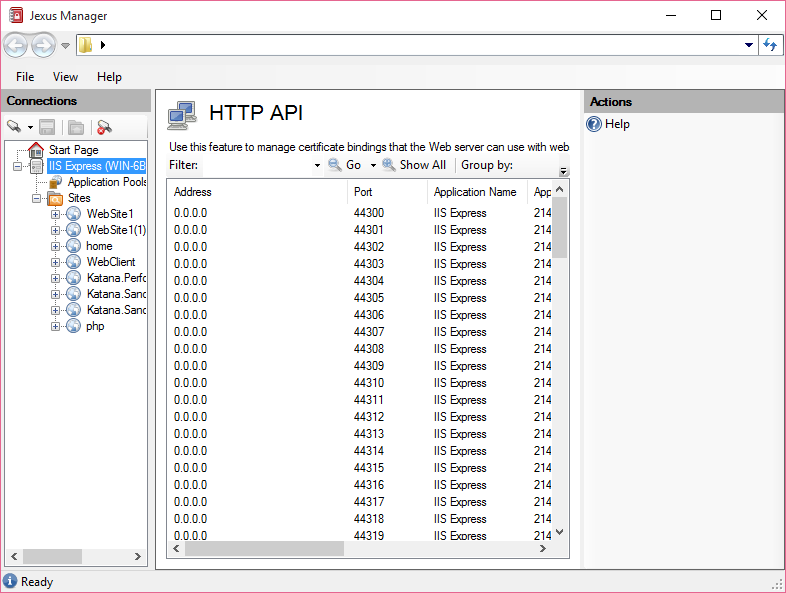
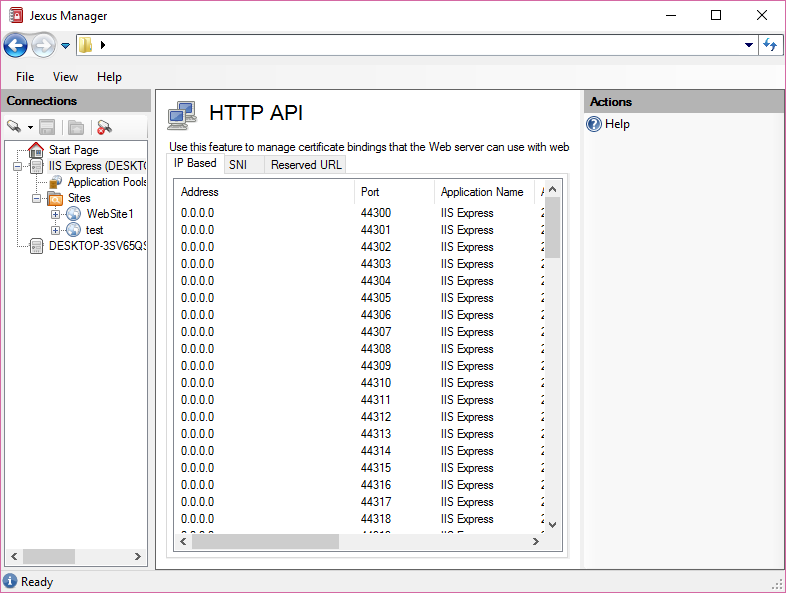
Revised HTTP API page to match latest build.

diff --git a/manager/tutorials/https-binding.rst b/manager/tutorials/https-binding.rst
@@ -58,9 +58,15 @@ Starting from Windows 8/IIS 8 and above, we can create SNI based in addition to 
 
 .. image:: _static/https_sni.png
 
-Scroll down to the bottom of the list, SNI based mapping for certificates is displayed. They are bind to host name + port number instead of IP end point + port number.
+SNI based mapping for certificates is displayed under SNI tab. They are bind to host name + port number instead of IP end point + port number.
 
 Such SNI based mappings are automatically created by Jexus Manager when you add SNI based bindings to web sites. They are also removed automatically when such bindings are removed from sites.
+
+Reserved URLs
+-------------
+Reserved URLs are displayed under Reserved URL tab.
+
+.. image:: _static/reserved_urls.png
 
 Related Resources
 -----------------
